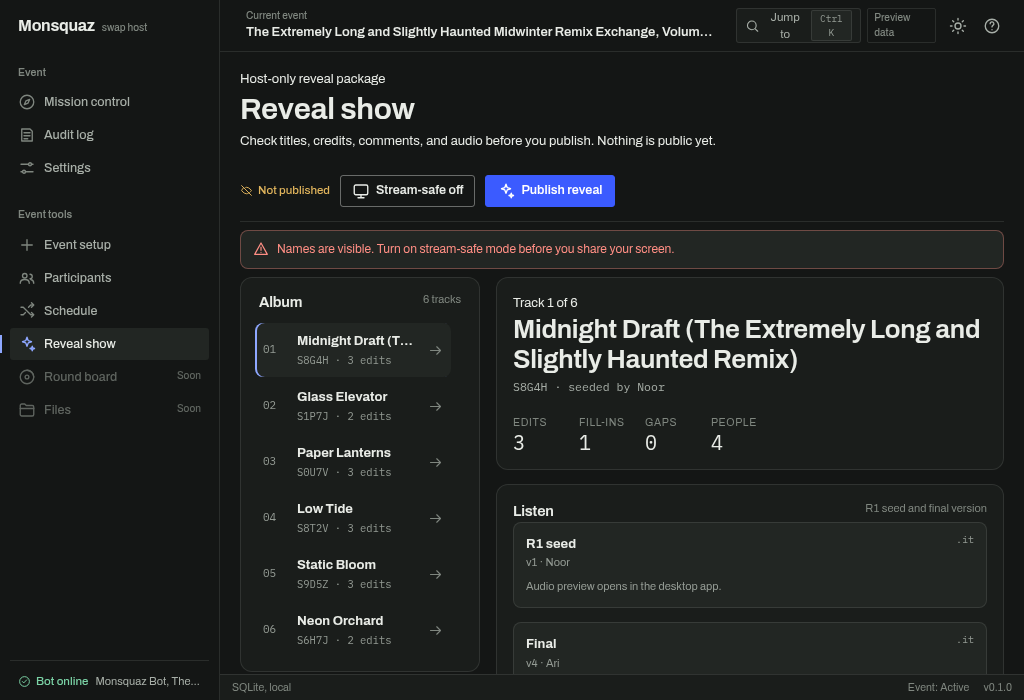
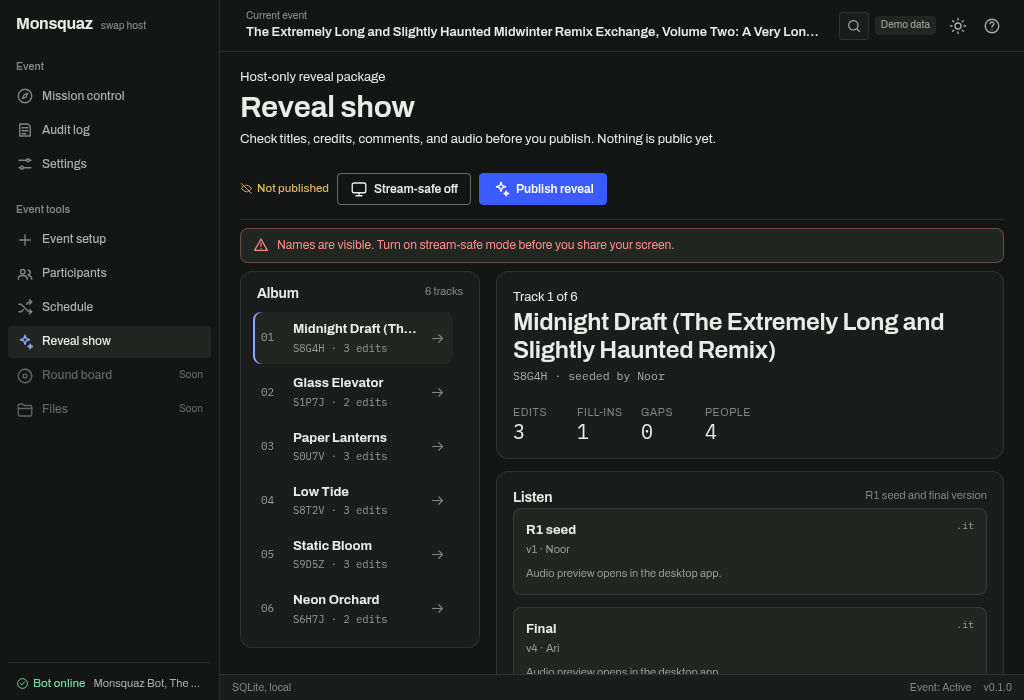
fix: keep the topbar actions on one line (MSW-058) (#48)
Stop the topbar actions from wrapping with a long event name. The title truncates and exposes the full name. The command trigger is icon-only below 1100 px with a title and aria-keyshortcuts. The demo marker is a tag, and album rows expose their full title. Add a full-name test and a longer fixture that proves the ellipsis at 1024.

diff --git a/ui/src/App.tsx b/ui/src/App.tsx
@@ -798,7 +798,7 @@ export default function App() {
             <div className="event-switcher event-switcher--static">
               <span className="event-switcher__copy">
                 <span className="event-switcher__label">{topbarLabel}</span>
-                <strong>{topbarTitle}</strong>
+                <strong title={topbarTitle}>{topbarTitle}</strong>
               </span>
             </div>
             <div className="topbar__actions">
@@ -806,13 +806,22 @@ export default function App() {
                 type="button"
                 className="command-trigger"
                 aria-label="Jump to"
+                aria-keyshortcuts="Control+K"
+                title="Jump to (Ctrl K)"
                 onClick={() => setPaletteOpen(true)}
               >
                 <Icon name="search" size={16} />
                 <span>Jump to</span>
                 <kbd>Ctrl K</kbd>
               </button>
-              {demo ? <span className="preview-pill">Preview data</span> : null}
+              {demo ? (
+                <span
+                  className="preview-pill"
+                  title="This window uses sample data."
+                >
+                  Demo data
+                </span>
+              ) : null}
               <button
                 type="button"
                 className="icon-button"

diff --git a/ui/src/App.css b/ui/src/App.css
@@ -405,6 +405,7 @@ textarea {
 
 .event-switcher {
   display: flex;
+  flex: 1 1 auto;
   align-items: center;
   gap: 8px;
   min-width: 0;
@@ -444,8 +445,10 @@ textarea {
 
 .topbar__actions {
   display: flex;
+  flex: none;
   align-items: center;
   gap: 6px;
+  white-space: nowrap;
 }
 
 .command-trigger {
@@ -459,6 +462,7 @@ textarea {
   background: var(--surface);
   color: var(--muted);
   font-size: 11.5px;
+  white-space: nowrap;
   cursor: pointer;
 }
 
@@ -481,11 +485,12 @@ textarea {
 
 .preview-pill {
   padding: 2px 6px;
-  border: 1px solid var(--line);
   border-radius: var(--radius-sm);
-  color: var(--faint);
+  background: var(--surface-2);
+  color: var(--faint-raised);
   font-size: 10px;
   font-weight: 500;
+  white-space: nowrap;
 }
 
 .icon-button {
@@ -4380,6 +4385,15 @@ select.input {
 }
 
 @media (max-width: 1100px) {
+  .command-trigger span,
+  .command-trigger kbd {
+    display: none;
+  }
+
+  .command-trigger {
+    padding: 0 6px;
+  }
+
   .reveal-header {
     flex-direction: column;
   }

diff --git a/ui/src/App.test.tsx b/ui/src/App.test.tsx
@@ -175,6 +175,16 @@ describe("App", () => {
     expect(toggle).toHaveAttribute("aria-pressed", "true");
   });
 
+  it("keeps the full event name in the topbar title", async () => {
+    setUrl("?demo=1&state=long&view=reveal&stream=0");
+    render(<App />);
+    await screen.findByRole("button", { name: "Stream-safe mode" });
+    const topbar = document.querySelector(".topbar");
+    expect(topbar).not.toBeNull();
+    const title = within(topbar as HTMLElement).getByTitle(/Extremely Long/);
+    expect(title).toHaveTextContent(/Extremely Long/);
+  });
+
   it("saves a title from the reveal show", async () => {
     setUrl("?demo=1&view=reveal&stream=0");
     render(<App />);

diff --git a/ui/src/views/Reveal.tsx b/ui/src/views/Reveal.tsx
@@ -374,6 +374,7 @@ export function RevealView({
                   aria-current={
                     track.trackCode === selected?.trackCode ? "true" : undefined
                   }
+                  title={track.title ?? "Untitled"}
                   onClick={() => setSelectedCode(track.trackCode)}
                 >
                   <span className="reveal-album__position">

diff --git a/ui/src/data/demo.ts b/ui/src/data/demo.ts
@@ -14,7 +14,7 @@ import type {
 } from "../types";
 
 const longEventName =
-  "The Extremely Long and Slightly Haunted Midwinter Remix Exchange, Volume Two";
+  "The Extremely Long and Slightly Haunted Midwinter Remix Exchange, Volume Two: A Very Long Subtitle for the Final Cut";
 
 const defaultTimeline: TimelineStep[] = [
   {

diff --git a/docs/ui/reviews/MSW-058.md b/docs/ui/reviews/MSW-058.md
@@ -1,0 +1,65 @@
+# UI review — MSW-058 long-title topbar
+
+Review date: 2026-11-26. Build: MSW-058 worktree.
+
+Screenshots: `docs/ui/screens/reveal-long-dark-1280.png` and
+`reveal-long-dark-1024.png`.
+
+## Scope
+
+- A long event name must not wrap or compress the topbar actions.
+- The event name truncates and exposes the full name in a title.
+- Below 1100 px the command trigger is icon-only.
+- The controls keep a 28 px or larger target.
+
+## Automated evidence
+
+- `pnpm --dir ui test`: 50 pass, including the full-name title test.
+- `scripts/design-check.sh`: pass, 0 locked findings.
+- `scripts/check.sh`: tracker, UI, design, and Rust pass.
+
+## Wave 1 — Visual design
+
+| View | State | Severity | Problem | Resolution |
+|---|---|---|---|---|
+| Topbar | 1024 | must-fix | The trigger kept the Ctrl K chip, so it read as two controls and contradicted the icon-only rule. | At <=1100 px both the label and the kbd hide; the trigger is one 30x28 icon with title and aria-keyshortcuts. |
+| Topbar | 1024 | should-fix | The fixture did not truncate, so the ellipsis was unproven. | The long fixture is about 115 characters and truncates before the actions at 1024. |
+| Topbar | 1024 | nit | The event name starts 4 px right of the page heading. | Accepted for v1. |
+| Album | 1024 | nit | Selected titles truncate with spare width. | The row has a full-title title attribute. |
+
+No must-fix remained after the re-capture.
+
+## Wave 2 — UX and copy
+
+| View | State | Severity | Problem | Resolution |
+|---|---|---|---|---|
+| Topbar | 1024 | must-fix | The icon-only Jump to control had no visible shortcut cue. | The Ctrl K keycap stays visible; only the words "Jump to" hide. The button has a title and `aria-keyshortcuts`. |
+| Topbar | 1024 | should-fix | "Preview data" read like a ghost button. | It is a borderless "Demo data" tag with a sample-data title. |
+| Album | 1024 | should-fix | Truncated track titles had no full-name affordance. | Each album row has the full title in `title`. |
+| Reveal, audio | Both | should-fix | Demo mode has no audio player and the copy is circular. | Outside MSW-058; recorded as a follow-up. |
+| Reveal, stream-safe | Both | should-fix | The label mixes state and action wording. | Outside MSW-058; recorded as a follow-up. |
+
+No must-fix remains. The 74-character fixture fits at 1024, so the ellipsis path
+is covered by the title test rather than the capture. A longer fixture can be a
+later evidence improvement.
+
+## Wave 3 — Accessibility
+
+| View | State | Severity | Problem | Resolution |
+|---|---|---|---|---|
+| Topbar | 1024 | should-fix | The icon-only Jump to button had no visible name for mouse users. | The button has `title="Jump to (Ctrl K)"`; the accessible name stays "Jump to". |
+| Album | 1024 | should-fix | Long album titles truncate and the row had no full-name affordance. | Each album row has the full title in `title`. |
+
+No must-fix. The Preview data pill is still visible at 1024; the earlier report
+that the media query hid it was a false positive. The topbar targets are 28 px,
+which passes WCAG 2.5.8. The gate passes contrast, focus, overflow, and
+clipping.
+
+## Verdict
+
+No must-fix remains after the fixes and re-capture. The visual, UX/copy, and
+accessibility reviewers confirmed the icon-only trigger, the full-name title,
+and the truncation path. MSW-058 is safe to merge.
+
+Pre-existing follow-ups outside this issue: the demo audio placeholder copy,
+the stream-safe state/action wording, and the album title clamp at 1024.
